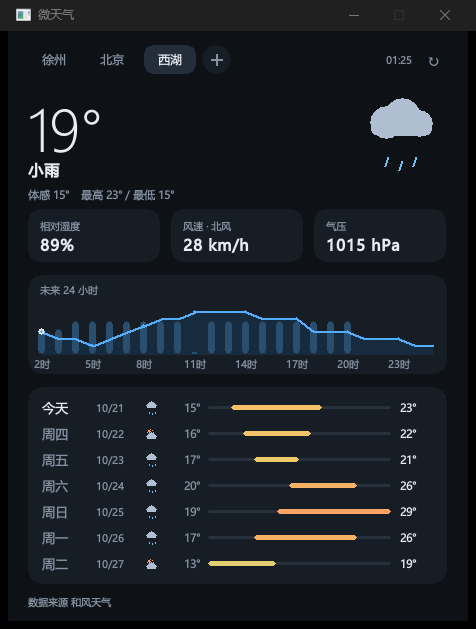
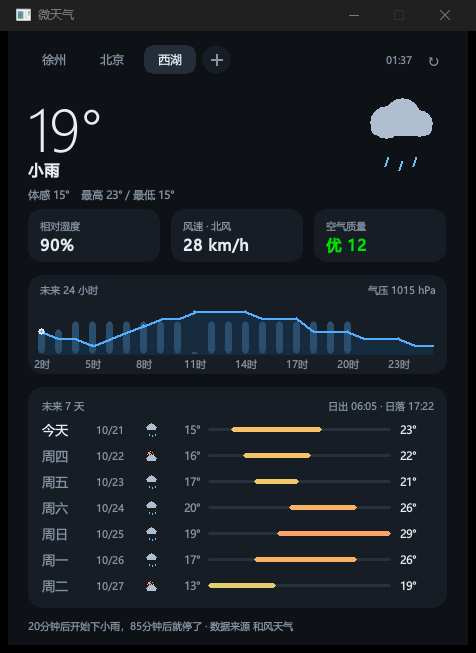
docs: 记录和风数据项对比、额度账与新版接口
补充 AQI/分钟级降水/日出日落等实测可用项，标注 deprecated 的旧接口与不在免费订阅内的数据包。

diff --git a/docs/weather-api-survey.md b/docs/weather-api-survey.md
@@ -97,3 +97,33 @@ GET .../search?name=朝阳区 ...
   （表现为 Open-Meteo 那条链路报 `读取数据失败（2147500036）` = `E_ABORT`）。
   最终自己实现了 gzip/deflate 解压（`src/gunzip.c`，约 300 行，RFC 1951/1952），
   请求时仍然优先声明 `identity`，只有服务端强行压缩时才本地解，两条链路互不影响。
+
+## 六、和风比 Open-Meteo 多出什么（本 Key 实测）
+
+| 数据 | 和风接口 | 本 Key 实测 | Open-Meteo 对照 |
+| --- | --- | --- | --- |
+| 实况 / 逐小时 / 7 天 | `/v7/weather/now|24h|7d` | ✅ | ✅ |
+| **中国标准 AQI + 污染物** | `/airquality/v1/current/{lat}/{lon}` | ✅ 返回 cn-mee 指数、PM2.5/PM10/NO2/O3/CO、健康建议 | 只有 us_aqi / european_aqi（另一域名，需单独取） |
+| **分钟级降水（2h / 5min）** | `/v7/minutely/5m?location=lon,lat` | ✅ 带中文摘要「未来两小时无降水」 | 有 15 分钟粒度（minutely_15） |
+| 日出日落 | 含在 `/v7/weather/7d` 的 daily 里 | ✅ | ✅（`daily=sunrise,sunset`） |
+| 生活指数（穿衣/洗车/紫外线…） | `/v7/indices/1d` | ❌ 403 Security Restriction | ❌ |
+| 灾害预警 | `weatheralert/v1/current/{lat}/{lon}` | ❌ 403 Security Restriction | ❌ |
+| 月相 / 月出月落 | `/v7/astronomy/*` | ❌ 403 Security Restriction | ❌ |
+| 历史天气 | `/v7/historical/weather` | ✅ | ✅ |
+| 台风 / 潮汐 / 太阳辐射 | `/v7/tropical/*`、`/v7/ocean/tide`、solar | 未开通 | ❌ |
+
+注意：**`/v7/air/now`、`/v7/air/5d`、`/v7/warning/now` 已标记 Deprecated（403）**，
+空气质量与预警必须走新版路径 `/airquality/v1/...`、`/weatheralert/v1/...`，
+其中空气质量用 API Key 即可，但预警、生活指数、天文不在免费订阅内。
+
+### 已经加到界面上的
+
+- **空气质量** → 第三张指标卡（原来放气压），AQI 数值按等级着色（接口给了 color 就直接用，没给按 6 级兜底色）
+- **气压** → 降级为 24 小时卡片右上角的小字（10px、灰色）
+- **日出日落** → 7 天卡片的小标题右侧
+- **分钟级降水摘要** → 底栏状态行，例如「20分钟后开始下小雨，85分钟后就停了」
+
+### 额度账
+
+和风一轮完整刷新是 5 个请求（now / 24h / 7d / air / minutely），所以接和风后自动刷新间隔
+从 10 分钟调到 15 分钟：96 × 5 = 480 次/天，免费额度 1000 次/天，剩下的留给切城市（每次切城市 5 次）。

diff --git a/README.md b/README.md
@@ -26,10 +26,11 @@
 - 顶部常用城市标签栏，最多 5 个城市，点击切换、**拖拽排序**、悬停出 `×` 删除，`+` 号搜索新城市
 - 右上角刷新按钮，配合自动刷新（每 10 分钟）
 - 当前温度、天气现象、体感温度、当日最高/最低
-- 相对湿度、风速与风向、海平面气压
-- 未来 24 小时温度曲线（叠加降水概率柱）
-- 7 天预报，温度区间条按温度着色
-- 城市搜索：内置 Open-Meteo Geocoding，支持中文城市名
+- 相对湿度、风速与风向、**空气质量（AQI，按等级着色）**
+- 未来 24 小时温度曲线（叠加降水概率柱），右上角小字显示气压
+- 7 天预报，温度区间条按温度着色，小标题带日出日落
+- 底栏状态行显示分钟级降水摘要（和风中国区独有）
+- 城市搜索：内置地理编码，支持中文城市名（和风可到区县）
 - 深色界面，跟随系统 DPI 缩放，双缓冲绘制无闪烁
 
 ## 快捷键
@@ -132,8 +133,9 @@ HKEY_CURRENT_USER\Software\MiniWeather
 
 客户端只发送经纬度（或你输入的城市名），不发送任何设备标识。
 
-> 想换成中国区更准的数据源？见 [docs/weather-api-survey.md](docs/weather-api-survey.md)：
-> 对比了和风、高德、心知、彩云，结论是**和风天气免费订阅**最合适（区县级覆盖、逐小时、7/15 天、预警）。
+> 和风比 Open-Meteo 多出来的数据（中国标准 AQI、分钟级降水）以及哪些数据包不在免费订阅内，
+> 见 [docs/weather-api-survey.md](docs/weather-api-survey.md) 第六节。
+> 接和风后每轮刷新是 5 个请求，所以自动刷新间隔从 10 分钟放宽到 15 分钟（≈480 次/天，额度 1000/天）。
 
 ## 已知限制
 
